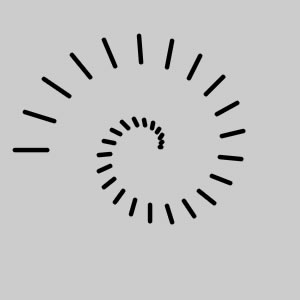
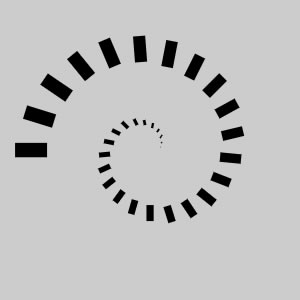
Documentation improvement

diff --git a/app/src/main/java/com/sccomponents/widgets/demo/MainActivity.java b/app/src/main/java/com/sccomponents/widgets/demo/MainActivity.java
@@ -16,15 +16,14 @@ public class MainActivity extends AppCompatActivity {
 
         final ScNotchs notchs = (ScNotchs) this.findViewById(R.id.notchs);
         assert notchs != null;
-        notchs.getPainter().setStrokeCap(Paint.Cap.ROUND);
         notchs.setOnDrawListener(new ScNotchs.OnDrawListener() {
             @Override
             public void onDrawNotch(ScNotchs.NotchInfo info) {
-                // Calculate a custom angle
+                // All customizations are arbitrary
                 info.angle = info.angle * 2 - 180;
-                // Distance and length
                 info.distanceFromBorder = info.index * 4;
                 info.length = notchs.getNotchs() - info.index;
+                info.size *= info.length / 10;
             }
         });
 

diff --git a/ScNotchs.md b/ScNotchs.md
@@ -211,15 +211,14 @@ Take a look to the [ScArc](ScArc) class documentation
 ```java
         final ScNotchs notchs = (ScNotchs) this.findViewById(R.id.notchs);
         assert notchs != null;
-        notchs.getPainter().setStrokeCap(Paint.Cap.ROUND);
         notchs.setOnDrawListener(new ScNotchs.OnDrawListener() {
             @Override
             public void onDrawNotch(ScNotchs.NotchInfo info) {
-                // Calculate a custom angle
+                // All customizations are arbitrary
                 info.angle = info.angle * 2 - 180;
-                // Distance and length
                 info.distanceFromBorder = info.index * 4;
                 info.length = notchs.getNotchs() - info.index;
+                info.size *= info.length / 10;
             }
         });
 ```
